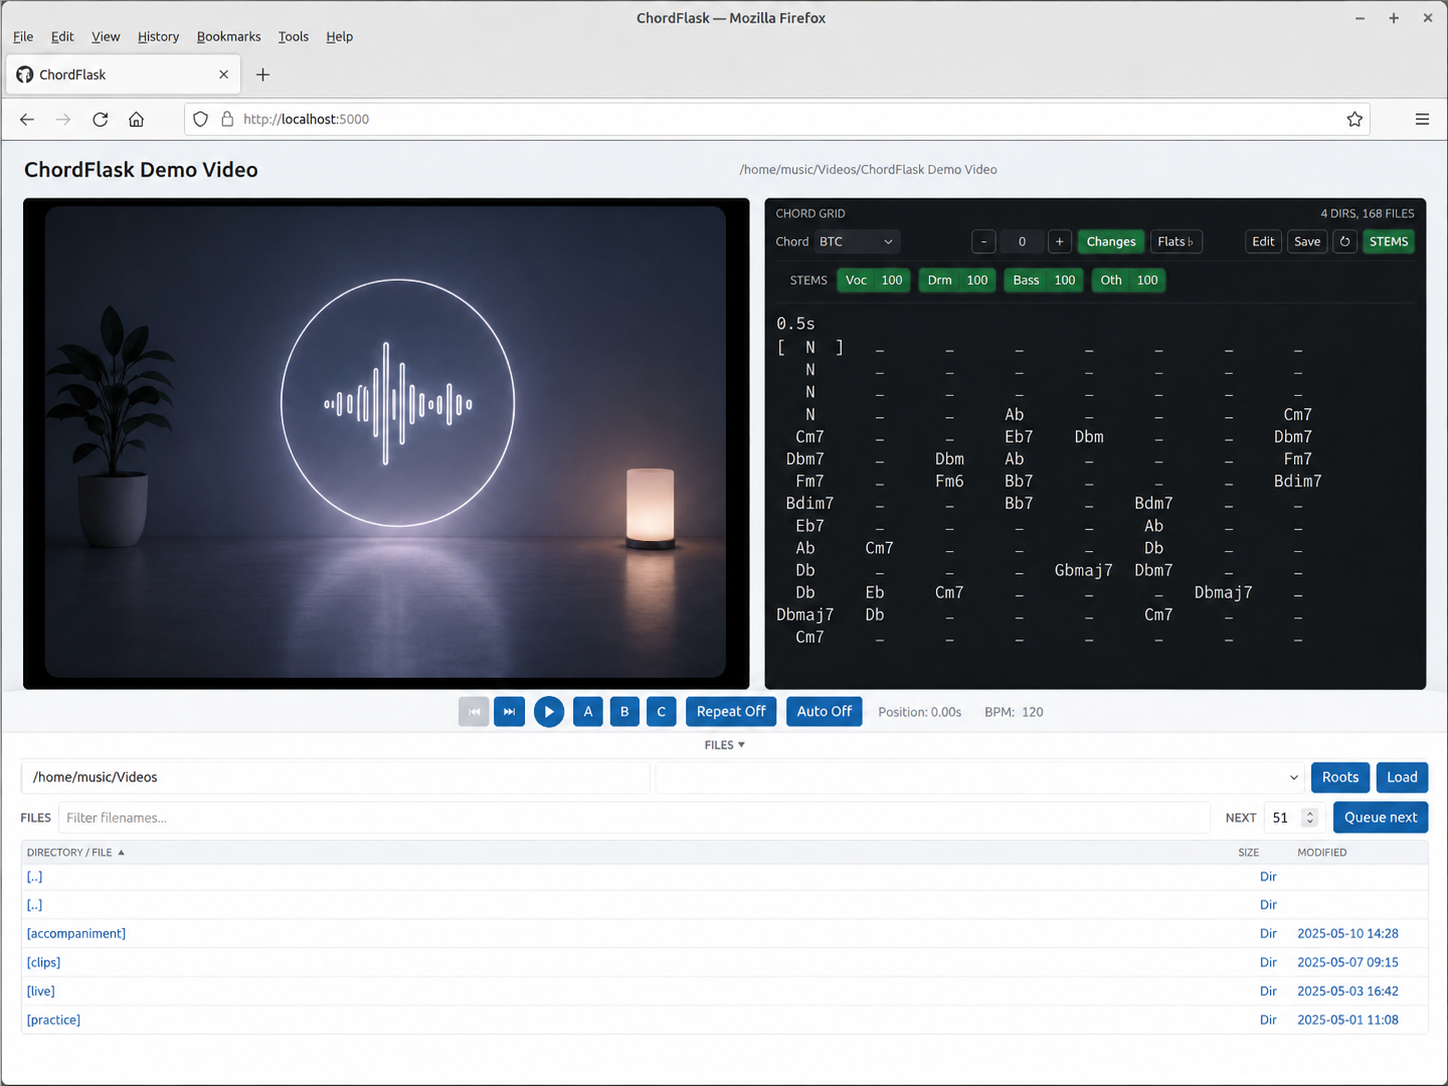
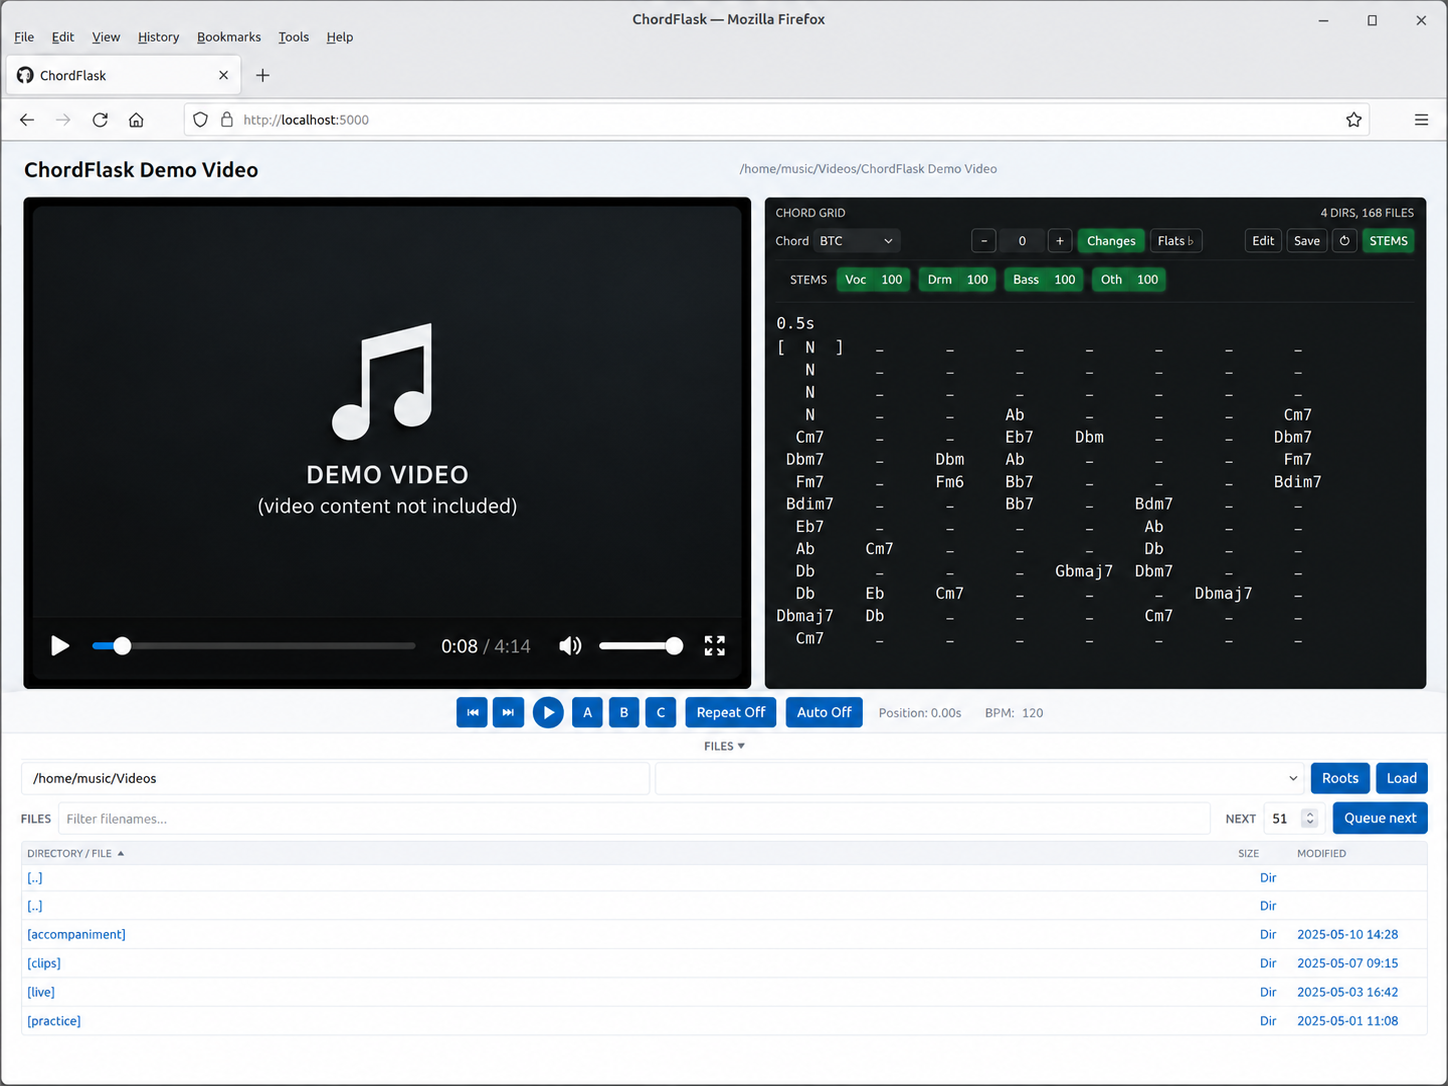
Publish ChordFlask v0.9.13

diff --git a/README.md b/README.md
@@ -289,6 +289,8 @@ layout, and limitations.
    playing the file. Press **A** and **B** to mark a loop segment and **⟳** to
    repeat it.
 
+![ChordFlask file browser and analysis view](docs/example-screenshot-2.png)
+
 ### Optional ChordPro Song view
 
 On desktop browsers, an analyzed media file can have a user-supplied,
